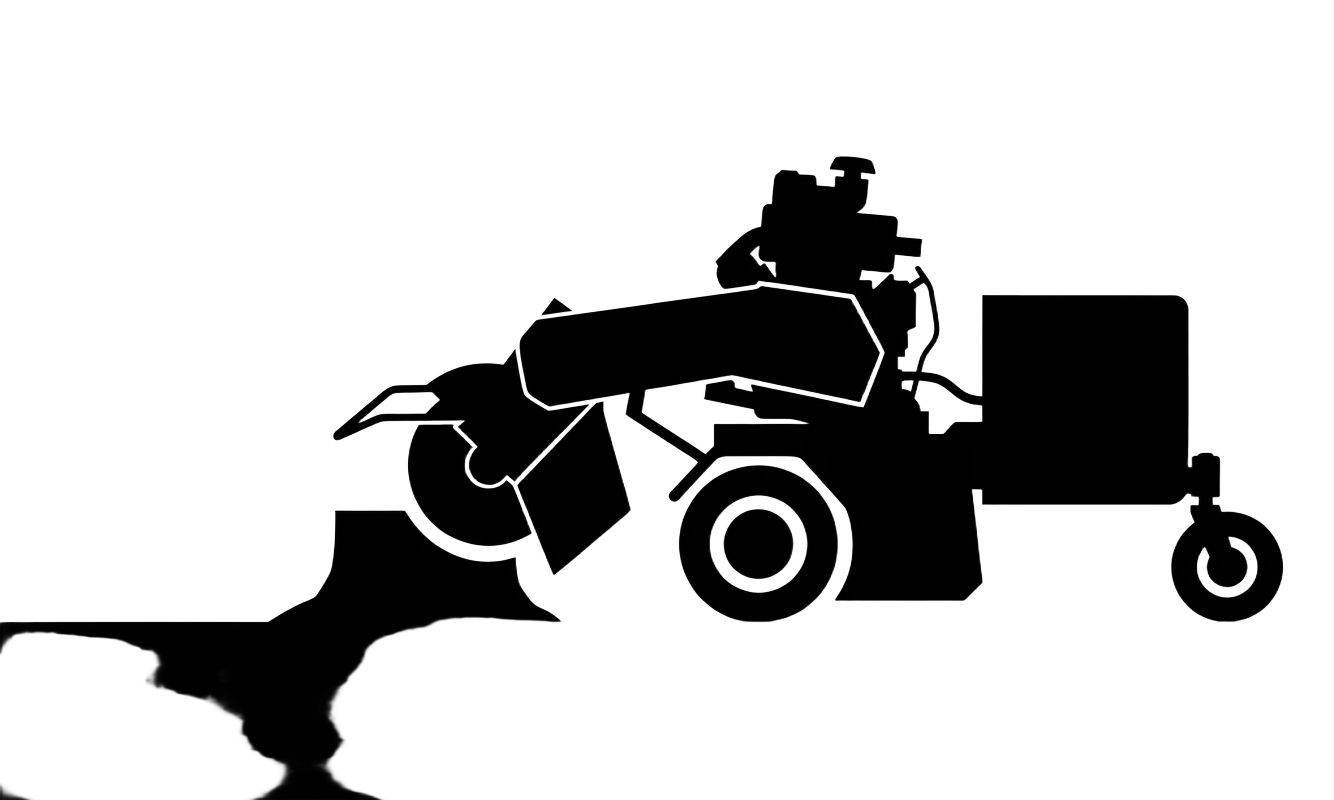
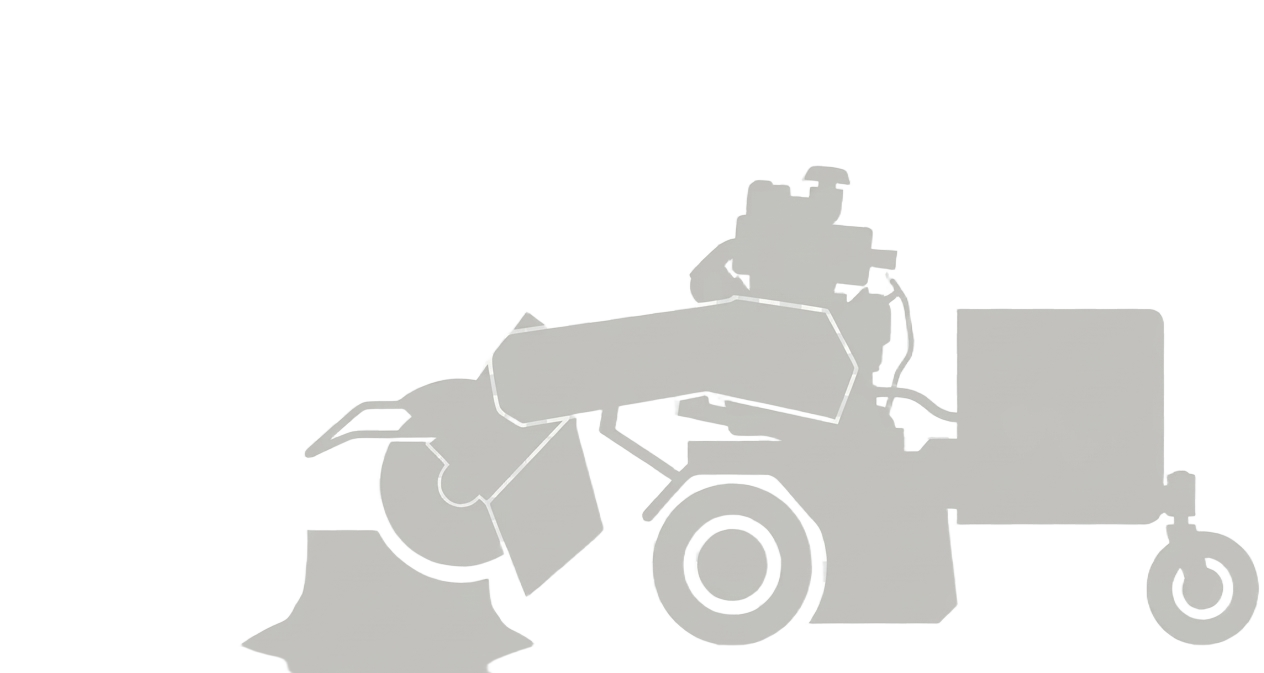
Adjust image to blend seamlessly with website background
Update the background gradient, image filter, and image positioning to ensure the stump grinder silhouette is precisely aligned with the website transition and matches the service packages background color.

Replit-Commit-Author: Agent
Replit-Commit-Session-Id: 05a796af-591f-477d-8d95-7dc6ea2674e7
Replit-Commit-Checkpoint-Type: full_checkpoint
Replit-Commit-Event-Id: 9aa01c36-3688-4fec-82d1-64c6790a2880
Replit-Commit-Screenshot-Url: https://storage.googleapis.com/screenshot-production-us-central1/79291489-c555-4628-bfb2-e337ed0fa0af/05a796af-591f-477d-8d95-7dc6ea2674e7/6LLNOhD
Replit-Helium-Checkpoint-Created: true

diff --git a/artifacts/terra-technologies/src/pages/Home.tsx b/artifacts/terra-technologies/src/pages/Home.tsx
@@ -286,12 +286,12 @@ export default function Home() {
 
       {/* SILHOUETTE DIVIDER */}
       <div style={{
-        background: "linear-gradient(to bottom, white 74%, #f5f5f3 74%)",
+        background: "linear-gradient(to bottom, white 82%, #f5f5f3 82%)",
         display: "flex",
-        justifyContent: "center",
+        justifyContent: "flex-start",
+        paddingLeft: "7%",
         overflow: "hidden",
         lineHeight: 0,
-        padding: 0,
         margin: 0,
       }}>
         <img
@@ -301,7 +301,7 @@ export default function Home() {
           style={{
             width: "min(320px, 40%)",
             display: "block",
-            filter: "invert(0.961) brightness(0.97)",
+            filter: "brightness(0) invert(1) brightness(0.961)",
             userSelect: "none",
             pointerEvents: "none",
           }}